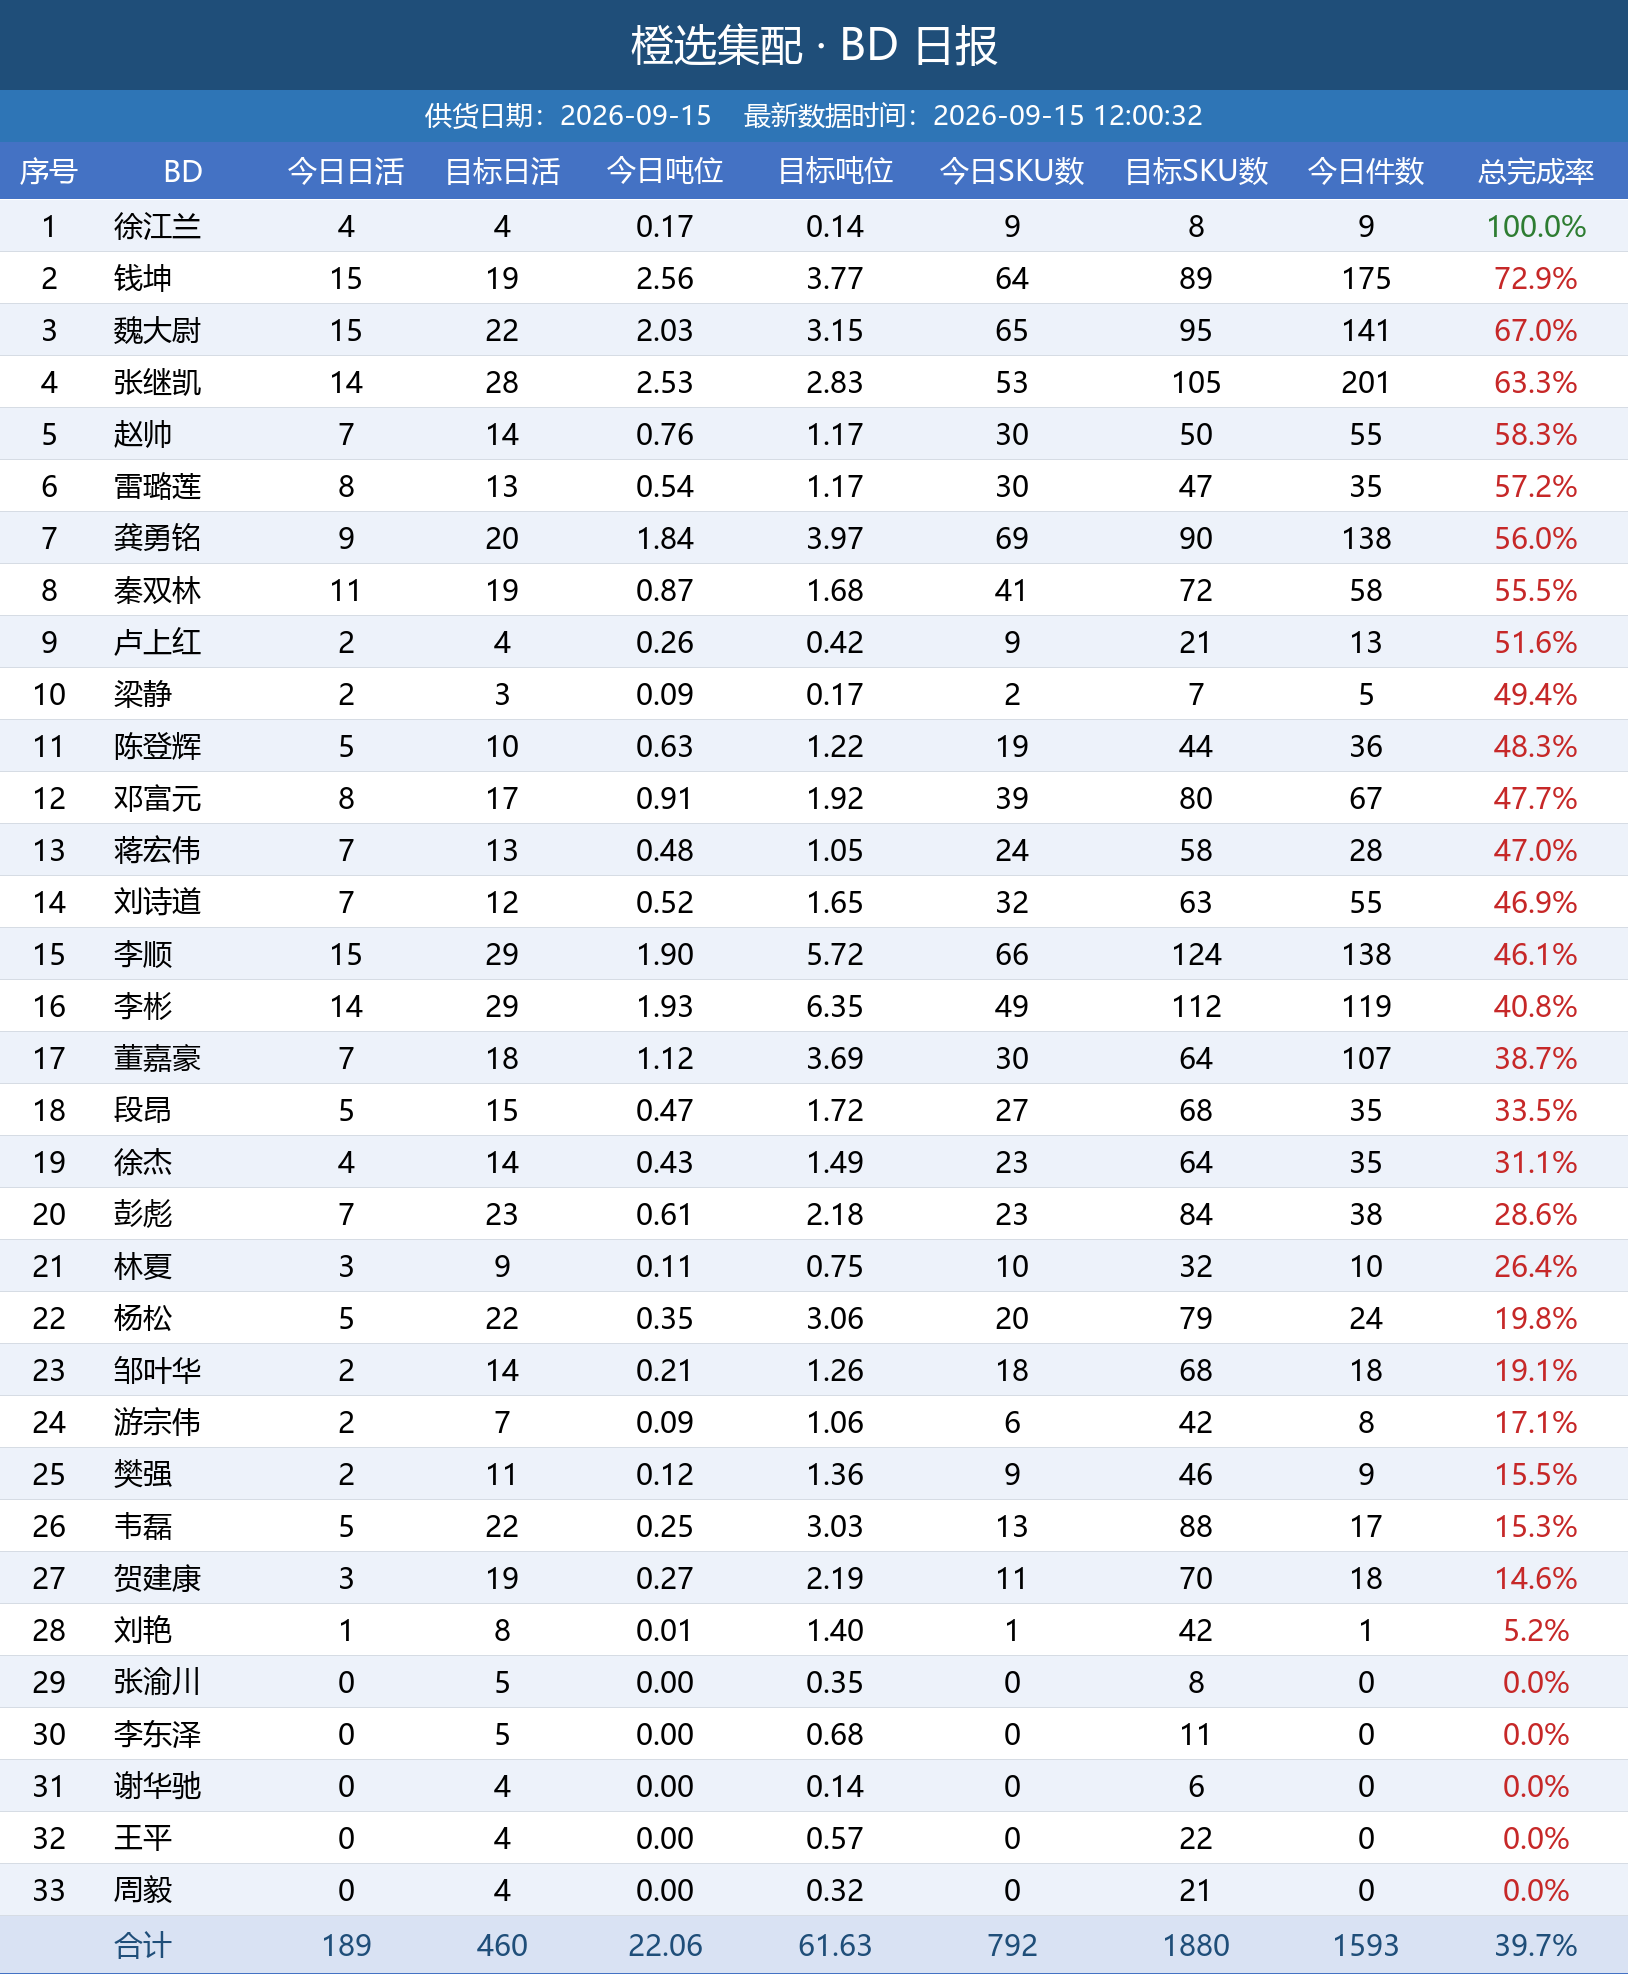
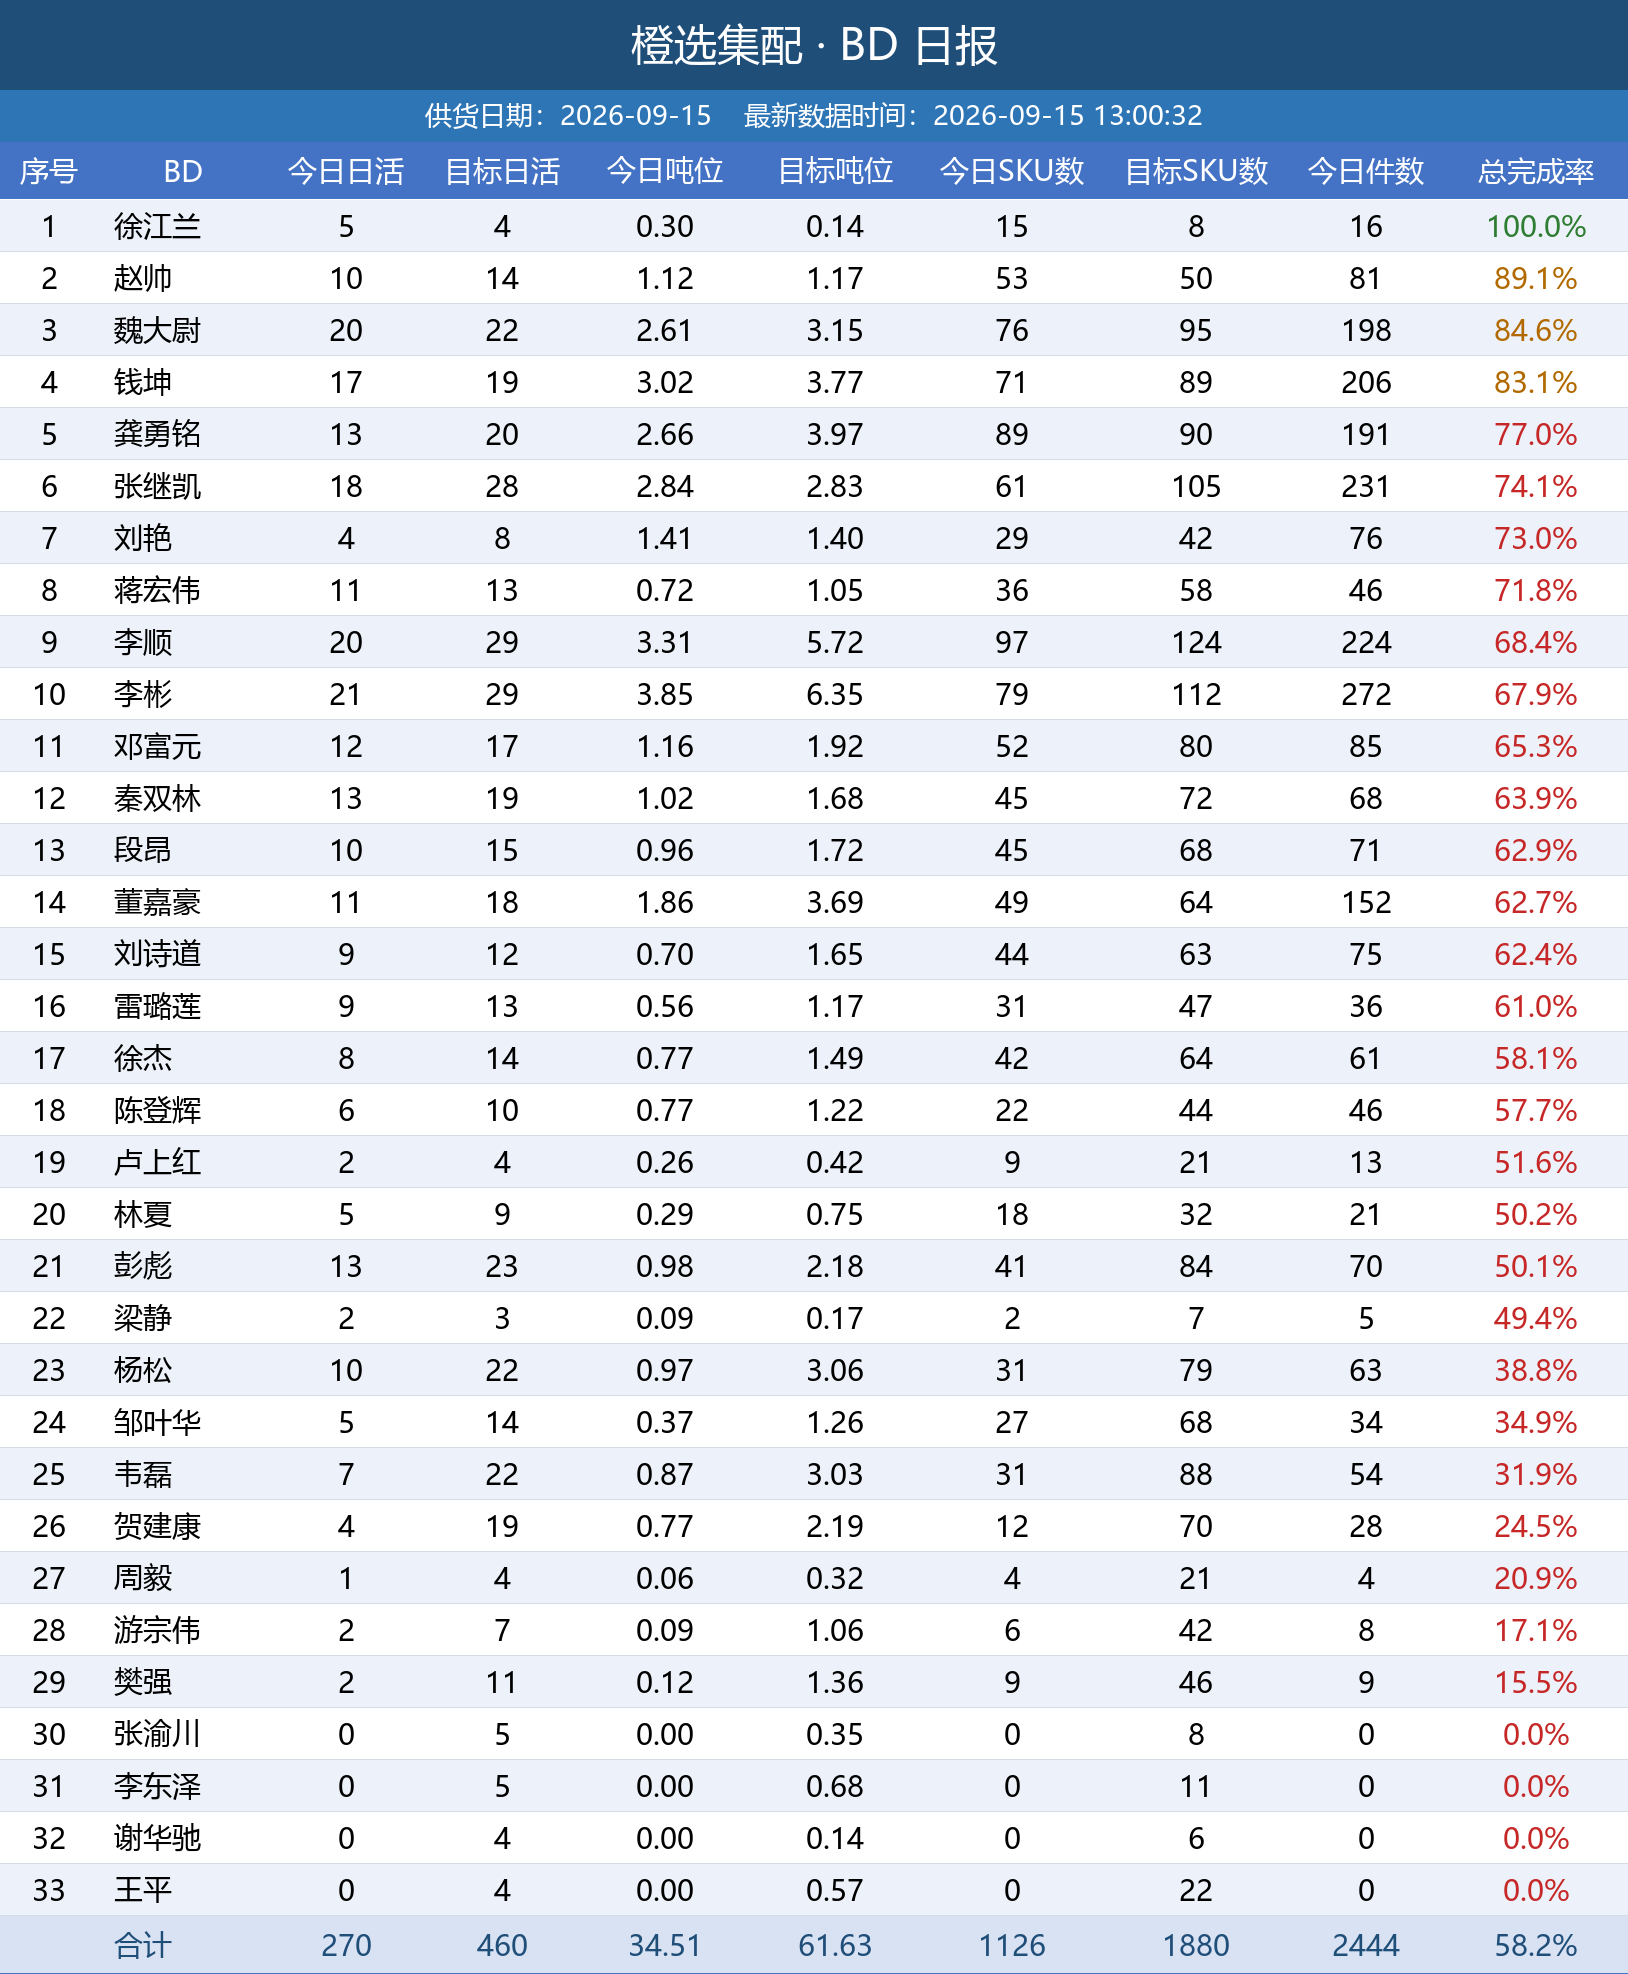
自动更新日报图片

diff --git a/index.html b/index.html
@@ -11,7 +11,7 @@ img { max-width: 100%; border: 1px solid #e5e5e5; margin-bottom: 24px; display: 
 </style>
 </head>
 <body>
-<h1>橙选集配日报图片（20260915_120037）</h1>
+<h1>橙选集配日报图片（20260915_130037）</h1>
 <img src="bd_latest.png" alt="BD 日报">
 <img src="wh_latest.png" alt="城市仓日报">
 <img src="zs_latest.png" alt="招商日报">
